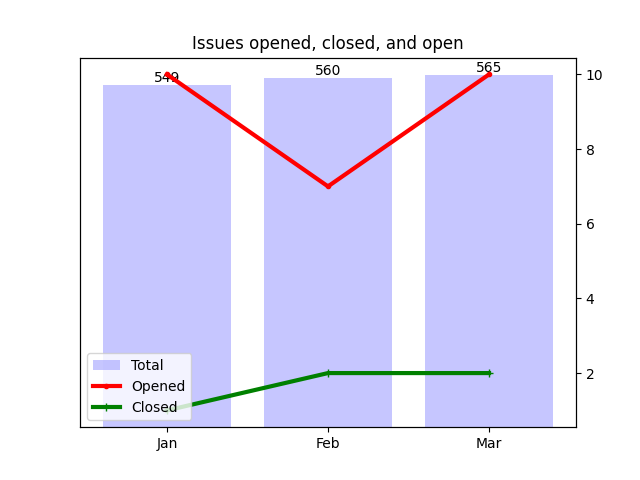
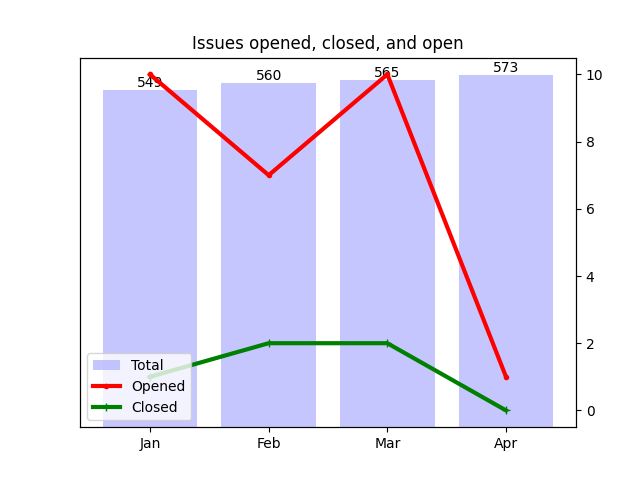
Apply automatic changes

diff --git a/docs/analytics.html b/docs/analytics.html
@@ -82,6 +82,11 @@ td .material-icons { display:inline-flex; vertical-align: top; font-size:1.1rem;
 							<td>10</td>
 							<td>2</td>
 						</tr>
+						<tr>
+							<td>Apr</td>
+							<td>1</td>
+							<td>0</td>
+						</tr>
 					</table>
 				</div>
 				<div class="col">
@@ -207,13 +212,13 @@ td .material-icons { display:inline-flex; vertical-align: top; font-size:1.1rem;
 				<tr>
 					<td>7</td>
 					<td>
-						<a href="http://github.com/notofonts/bengali/issues">bengali</a>,  						<a href="http://github.com/notofonts/canadian-aboriginal/issues">canadian-aboriginal</a>,  						<a href="http://github.com/notofonts/gurmukhi/issues">gurmukhi</a>,  						<a href="http://github.com/notofonts/hentaigana/issues">hentaigana</a>,  						<a href="http://github.com/notofonts/kannada/issues">kannada</a>,  						<a href="http://github.com/notofonts/modi/issues">modi</a>,  						<a href="http://github.com/notofonts/old-hungarian/issues">old-hungarian</a> 
+						<a href="http://github.com/notofonts/canadian-aboriginal/issues">canadian-aboriginal</a>,  						<a href="http://github.com/notofonts/gurmukhi/issues">gurmukhi</a>,  						<a href="http://github.com/notofonts/hentaigana/issues">hentaigana</a>,  						<a href="http://github.com/notofonts/kannada/issues">kannada</a>,  						<a href="http://github.com/notofonts/modi/issues">modi</a>,  						<a href="http://github.com/notofonts/old-hungarian/issues">old-hungarian</a> 
 					</td>
 				</tr>
 				<tr>
 					<td>8</td>
 					<td>
-						<a href="http://github.com/notofonts/dives-akuru/issues">dives-akuru</a> 
+						<a href="http://github.com/notofonts/bengali/issues">bengali</a>,  						<a href="http://github.com/notofonts/dives-akuru/issues">dives-akuru</a> 
 					</td>
 				</tr>
 				<tr>
@@ -250,7 +255,7 @@ td .material-icons { display:inline-flex; vertical-align: top; font-size:1.1rem;
 
 									<a href="http://github.com/notofonts/devanagari/issues">devanagari</a>: 11, 
 
-									<a href="http://github.com/notofonts/bengali/issues">bengali</a>: 7, 
+									<a href="http://github.com/notofonts/bengali/issues">bengali</a>: 8, 
 
 									<a href="http://github.com/notofonts/gurmukhi/issues">gurmukhi</a>: 7, 
 
@@ -526,6 +531,28 @@ td .material-icons { display:inline-flex; vertical-align: top; font-size:1.1rem;
 								</button>
 								<ul class="releases collapse">
 									<li><a href="https://github.com/notofonts/oriya/releases/tag/NotoSansOriya-v2.006">NotoSansOriya-v2.006</a></li>
+								</ul>
+							</td>
+						</tr>
+
+						<tr>
+							<td>Apr</td>
+							<td id="month-Apr">
+								<button
+									class="btn btn-link collapsed"
+									data-toggle="collapse"
+									data-target="#month-Apr .releases"
+								>
+									<span class="material-icons"></span>
+									6 releases
+								</button>
+								<ul class="releases collapse">
+									<li><a href="https://github.com/notofonts/test/releases/tag/NotoSansTest-v1.002">NotoSansTest-v1.002</a></li>
+									<li><a href="https://github.com/notofonts/arabic/releases/tag/NotoNaskhArabic-v2.018">NotoNaskhArabic-v2.018</a></li>
+									<li><a href="https://github.com/notofonts/egyptian-hieroglyphs/releases/tag/NotoSansEgyptianHieroglyphs-v2.002">NotoSansEgyptianHieroglyphs-v2.002</a></li>
+									<li><a href="https://github.com/notofonts/hebrew/releases/tag/NotoSerifHebrew-v2.004">NotoSerifHebrew-v2.004</a></li>
+									<li><a href="https://github.com/notofonts/hebrew/releases/tag/NotoSansHebrew-v2.004">NotoSansHebrew-v2.004</a></li>
+									<li><a href="https://github.com/notofonts/hebrew/releases/tag/NotoRashiHebrew-v1.007">NotoRashiHebrew-v1.007</a></li>
 								</ul>
 							</td>
 						</tr>